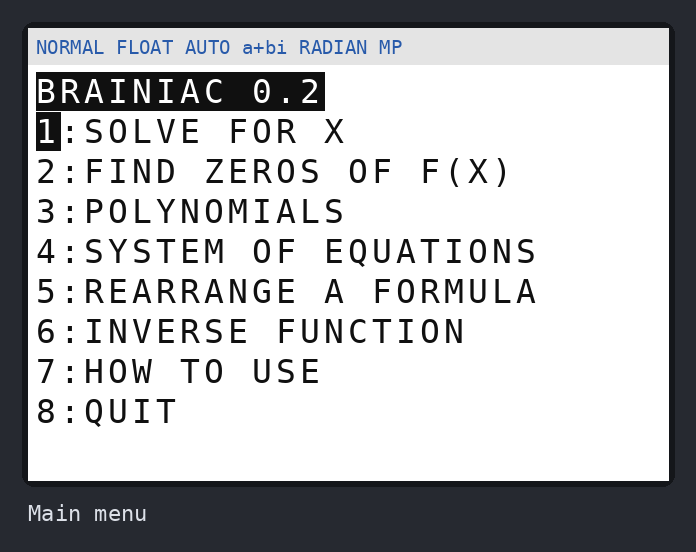
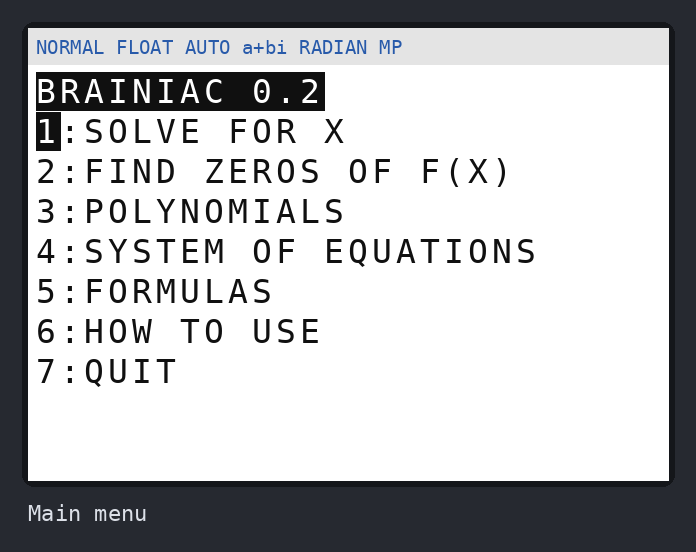
Fix ERR:INVALID DIM in every mode: the calculator has no empty strings
""→Str7 in the code that reads the equation is ERR:INVALID DIM on the
calculator, so every mode failed right after Enter. Every string that was
built up from "" now starts as "?" and has it taken off with sub( at the
end. Systems ask how many equations first instead of ending on a blank
line, since a blank Input has no documented behaviour either.

Also, to stay inside what TI documents:
- the main menu has 7 options (Rearrange and Inverse move under Formulas),
- seq( is never given complex values, augment( never complex lists, and no
  complex number is ever stored into one element of a list; the Fourier
  transforms and root polishing build complex lists from real( and imag(
  parts instead.

The simulator now refuses all of the above, and reproduces the reported
error on the previous build. 138 tests.

Claude-Session: https://claude.ai/code/session_01TAL8UPBif8sQwKba6jvyM3

Changed region(s): [[0.0302, 0.4928, 0.5129, 0.7699], [0.4526, 0.4928, 0.7845, 0.6467], [0.3621, 0.6467, 0.4526, 0.7083]]

diff --git a/brainiac/tibasic.py b/brainiac/tibasic.py
@@ -18,7 +18,9 @@ are the usual ways TI-BASIC programs break:
     calculator's stack (a slow memory leak); `leaks` counts these,
   - √ of a negative stops with ERR:NONREAL ANS in Real mode, 1/0 stops with
     ERR:DIVIDE BY 0, results past 1E100 stop with ERR:OVERFLOW,
-  - the If line without Then guards only the single next statement.
+  - the If line without Then guards only the single next statement,
+  - there are no empty strings: ""→Str1, ""+"A", length(""), a blank Input
+    into a string are all errors (Disp "" for a blank line is fine).
 """
 
 from __future__ import annotations
@@ -563,6 +565,9 @@ class Machine:
             toks = keyboard_to_tokens(text) if text.strip() else []
             self.screen.put_after(row, len(prompt), glyphs(toks))
             if target[0] == "strvar":
+                if not toks:
+                    raise TIError("INVALID DIM (blank Input: what the calculator does "
+                                  "with it is unknown, so Brainiac must not rely on it)")
                 self.strings[target[1]] = TIString(tuple(toks))
             else:
                 self.store(target, self.eval(Parser(toks).whole()))
@@ -597,6 +602,8 @@ class Machine:
         for i in range(1, len(groups) - 1, 2):
             text = fmt(self.eval(Parser(groups[i]).whole()))
             options.append((text, label_name(groups[i + 1])))
+        if len(options) > 7:
+            raise TIError("SYNTAX (Menu( takes at most 7 options)")
         snap = self.screen.snapshot()
 
         def finish(choice):
@@ -625,6 +632,8 @@ class Machine:
         elif kind == "strvar":
             if not isinstance(val, TIString):
                 raise TIError("DATA TYPE")
+            if not val.tokens:
+                raise TIError("INVALID DIM (the calculator has no empty strings)")
             self.strings[target[1]] = val
         elif kind == "yvar":
             if not isinstance(val, TIString):
@@ -640,6 +649,11 @@ class Machine:
             if i > len(lst) + 1:
                 raise TIError("INVALID DIM")
             v = self.number(val)
+            # a list is all real or all complex; what storing a complex number
+            # into one element of a real list does is unknown, so never do it
+            if isinstance(v, complex) != any(isinstance(x, complex) for x in lst) and lst:
+                raise TIError("DATA TYPE (complex element into a real list, or the "
+                              "reverse: unknown on the calculator)")
             if i == len(lst) + 1:
                 lst.append(v)
             else:
@@ -1181,6 +1195,8 @@ class Evaluator:
         m.ops += 1
         if isinstance(a, TIString) or isinstance(b, TIString):
             if op == "+" and isinstance(a, TIString) and isinstance(b, TIString):
+                if not a.tokens or not b.tokens:
+                    raise TIError("INVALID DIM (the calculator has no empty strings)")
                 return TIString(a.tokens + b.tokens)
             raise TIError("DATA TYPE")
         if isinstance(a, list) or isinstance(b, list):
@@ -1261,6 +1277,8 @@ class Evaluator:
             return [self.relation(op, x, y) for x, y in zip(aa, bb)]
         if isinstance(a, TIString) or isinstance(b, TIString):
             if op in ("=", "!=") and isinstance(a, TIString) and isinstance(b, TIString):
+                if not a.tokens or not b.tokens:
+                    raise TIError("INVALID DIM (the calculator has no empty strings)")
                 return float((a.tokens == b.tokens) == (op == "="))
             raise TIError("DATA TYPE")
         if op in ("=", "!="):
@@ -1310,6 +1328,9 @@ class Evaluator:
         if name == "augment(":
             a, b = args
             if isinstance(a, list) and isinstance(b, list):
+                if any(isinstance(x, complex) for x in a + b):
+                    raise TIError("DATA TYPE (augment( of complex lists: unknown on the "
+                                  "calculator)")
                 if len(a) + len(b) > 999:
                     raise TIError("INVALID DIM")
                 return a + b
@@ -1458,7 +1479,11 @@ class Evaluator:
                 v = self.eval(nodes[0])
                 if isinstance(v, (list, TIString, TIMatrix)):
                     raise TIError("DATA TYPE")
-                out.append(m.number(v))
+                v = m.number(v)
+                if isinstance(v, complex):
+                    raise TIError("DATA TYPE (seq( of complex values: unknown on the "
+                                  "calculator, so Brainiac must not rely on it)")
+                out.append(v)
                 if len(out) > 999:
                     raise TIError("INVALID DIM")
                 k = m.number(k + step)
@@ -1472,6 +1497,8 @@ class Evaluator:
             s = args[0]
             if not isinstance(s, TIString):
                 raise TIError("DATA TYPE")
+            if not s.tokens:
+                raise TIError("INVALID DIM (the calculator has no empty strings)")
             return float(len(s.tokens))
         if name == "expr(":
             s = args[0]
@@ -1490,10 +1517,8 @@ class Evaluator:
             if not isinstance(s, TIString) or not isinstance(sub_, TIString):
                 raise TIError("DATA TYPE")
             hay, needle = s.tokens, sub_.tokens
-            # unsure what the calculator does with an empty string here, so
-            # Brainiac must never ask
             if not hay or not needle:
-                raise TIError("INVALID DIM (inString of an empty string)")
+                raise TIError("INVALID DIM (the calculator has no empty strings)")
             for i in range(start - 1, len(hay) - len(needle) + 1):
                 if hay[i:i + len(needle)] == needle:
                     return float(i + 1)
@@ -1502,6 +1527,8 @@ class Evaluator:
             s = args[0]
             if not isinstance(s, TIString) or len(args) != 3:
                 raise TIError("ARGUMENT")
+            if not s.tokens:
+                raise TIError("INVALID DIM (the calculator has no empty strings)")
             start, length = int(m.real(args[1])), int(m.real(args[2]))
             if start < 1 or length < 1 or start + length - 1 > len(s.tokens):
                 raise TIError("DOMAIN")

diff --git a/tests/test_brainiac.py b/tests/test_brainiac.py
@@ -16,8 +16,9 @@ from brainiac.tibasic import (Machine, TIError, fmt, glyphs, keyboard_to_tokens,
                               tokens_from_text)
 from tivars.types import TIProgram
 
-SOLVE, ZEROS, POLY, SYSTEM, REARRANGE, INVERSE, HELP, QUIT = "12345678"
+SOLVE, ZEROS, POLY, SYSTEM, FORMULAS, HELP, QUIT = "1234567"
 ROOTS, QUAD, SIMPLIFY, FACTOR, DIVIDE = "12345"
+REARRANGE, INVERSE = (FORMULAS, "1"), (FORMULAS, "2")
 
 
 # -- helpers -------------------------------------------------------------------
@@ -29,6 +30,7 @@ def run(*answers):
     """
     m = load_program()
     m.run()
+    answers = [x for a in answers for x in (a if isinstance(a, tuple) else (a,))]
     for a in answers:
         assert m.wait.kind in ("menu", "input", "pause"), (answers, m.wait, m.statement_text())
         m.answer(a)
@@ -107,6 +109,21 @@ def test_labels_are_plain_letters_on_the_calculator():
             assert len(tokens) <= 3 and all(len(t.accessible) == 1 for t in tokens[1:]), line
 
 
+def test_no_menu_has_more_than_seven_options():
+    for line in source_lines():
+        if line.startswith("Menu("):
+            assert line.count(",") <= 14, line
+
+
+def test_simulator_refuses_what_the_calculator_might_not_do():
+    """Rules Brainiac can't verify from here, so it must not depend on them."""
+    for text in ['seq(𝑖I,I,1,3)→ʟA', '{1,2}→ʟA\n𝑖→ʟA(1)', 'augment({𝑖},{2})→ʟA',
+                 'Menu("T","1",A,"2",A,"3",A,"4",A,"5",A,"6",A,"7",A,"8",A)\nLbl A']:
+        m = Machine.from_text(text)
+        m.complex_mode = True
+        assert m.run().kind == "error", text
+
+
 def test_build_refuses_letters_that_fuse_into_one_token():
     from brainiac.build import check
     from tivars.tokenizer import encode
@@ -173,11 +190,6 @@ def test_solve_rejects_a_missing_side():
     assert "EQUATION NEEDS ONE =" in lines[0]
     m.answer("")
     assert m.wait.kind == "input"                 # straight back to typing
-
-
-def test_blank_input_goes_back_to_the_menu():
-    m, _ = run(SOLVE, "")
-    assert m.wait.kind == "menu" and m.wait.title == "BRAINIAC 0.2"
 
 
 # -- find zeros ----------------------------------------------------------------------------
@@ -305,13 +317,13 @@ def test_divide(top, bottom, quotient, remainder):
                             "Z CAN BE ANY NUMBER."]),
 ])
 def test_systems(equations, expected):
-    m, lines = run(SYSTEM, *equations, "")
+    m, lines = run(SYSTEM, str(len(equations)), *equations)
     assert_clean(m)
     assert lines == expected
 
 
 def test_systems_reject_nonlinear():
-    m, lines = run(SYSTEM, "X^2+Y=3")
+    m, lines = run(SYSTEM, "2", "X^2+Y=3")
     assert "LINEAR" in lines[1]
 
 
@@ -378,8 +390,9 @@ def test_many_rounds_do_not_leak():
     m = load_program()
     m.run()
     for mode, inputs in [(SOLVE, ["X^2=9"]), (SOLVE, ["sin(X)=2"]), (REARRANGE, ["A=BH", "B"]),
-                         (INVERSE, ["2X"]), (SYSTEM, ["X+Y=2", "X-Y=0", ""])]:
-        m.answer(mode)
+                         (INVERSE, ["2X"]), (SYSTEM, ["2", "X+Y=2", "X-Y=0"])]:
+        for text in (mode if isinstance(mode, tuple) else (mode,)):
+            m.answer(text)
         for text in inputs:
             m.answer(text)
         while m.wait.kind == "pause":
@@ -457,6 +470,19 @@ def test_list_bracket_is_a_lookup_not_a_multiplication():
     m = Machine.from_text("{5,6,7}→ʟL\nʟL(2)→A")
     m.run()
     assert m.reals["A"] == 6
+
+
+def test_there_are_no_empty_strings():
+    """""→Str1 is ERR:INVALID DIM on the calculator (the 0.2 bug)."""
+    for text in ['""→Str1', '"A"→Str1\n""+Str1→Str2', 'length("")→A']:
+        assert Machine.from_text(text).run().kind == "error", text
+    m = Machine.from_text('Disp ""')          # a blank line is fine, though
+    assert m.run().kind == "done"
+
+
+def test_no_source_line_stores_an_empty_string():
+    for line in source_lines():
+        assert '""→' not in line, line
 
 
 def test_and_checks_both_sides():

diff --git a/brainiac/shots.py b/brainiac/shots.py
@@ -24,11 +24,11 @@ TOURS = [
     ("10-factor", "Factor", ["3", "4", "6X^2+X-2"]),
     ("11-simplify", "Simplify / expand", ["3", "3", "(A+B)^2-(A-B)^2"]),
     ("12-divide", "Polynomial division", ["3", "5", "X^3+2X+5", "X^2+1"]),
-    ("13-system", "A 3x3 system", ["4", "2X+3Y-Z=1", "X-Y+2Z=3", "3X+Y+Z=6", ""]),
-    ("14-rearrange-pendulum", "Rearrange T=2π√(L/G) for L", ["5", "T=2pi√(L/G)", "L"]),
-    ("15-rearrange-gas", "Rearrange PV=NRT for T", ["5", "PV=NRT", "T"]),
-    ("16-inverse", "Inverse of (X+1)/(X-2)", ["6", "(X+1)/(X-2)"]),
-    ("17-help", "How to use, page 1", ["7"]),
+    ("13-system", "A 3x3 system", ["4", "3", "2X+3Y-Z=1", "X-Y+2Z=3", "3X+Y+Z=6"]),
+    ("14-rearrange-pendulum", "Rearrange T=2π√(L/G) for L", ["5", "1", "T=2pi√(L/G)", "L"]),
+    ("15-rearrange-gas", "Rearrange PV=NRT for T", ["5", "1", "PV=NRT", "T"]),
+    ("16-inverse", "Inverse of (X+1)/(X-2)", ["5", "2", "(X+1)/(X-2)"]),
+    ("17-help", "How to use, page 1", ["6"]),
 ]
 
 

diff --git a/brainiac/README.md b/brainiac/README.md
@@ -8,8 +8,8 @@ A math solver for the **TI-84 Plus CE**. Version 0.2:
 | **Find zeros of F(X)** | The same engine, for a function instead of an equation. |
 | **Polynomials** | Roots of any degree (complex too), **quadratic step by step** (discriminant, formula, factored form, vertex form), **simplify/expand**, **factor**, **divide**. |
 | **System of equations** | Up to 6 linear equations, typed the way you'd write them. It says when there's no solution or infinitely many. |
-| **Rearrange a formula** | `A=BH/2` for H gives `H=2A/B`. `T=2π√(L/G)` for L gives `L=GT²/(4π²)`. |
-| **Inverse function** | `(X+1)/(X-2)` gives `F⁻¹(X)=(2X+1)/(X-1)`. |
+| **Formulas › Rearrange** | `A=BH/2` for H gives `H=2A/B`. `T=2π√(L/G)` for L gives `L=GT²/(4π²)`. |
+| **Formulas › Inverse** | `(X+1)/(X-2)` gives `F⁻¹(X)=(2X+1)/(X-1)`. |
 
 | | | |
 |---|---|---|
@@ -46,6 +46,8 @@ choose **Replace**.
 - Use the **[(-)]** key for negative numbers, not **[−]**.
 - `(DOUBLE)` after an answer means a repeated root, where the graph touches
   zero without crossing it.
+- There's no way to leave a prompt blank. If you change your mind, type
+  anything (like `1`) and pick MAIN MENU afterwards.
 - Answers that run past one screen show **ENTER: MORE**.
 
 ### What it can't do yet
@@ -140,6 +142,17 @@ programs:
 - the same errors (NONREAL ANS, DIVIDE BY 0, OVERFLOW, DOMAIN…);
 - 14-digit decimal arithmetic;
 - an `and` that checks both sides before deciding;
+- **no empty strings**: `""→Str1` is ERR:INVALID DIM on the calculator
+  (the bug that broke every mode of the first 0.2 build);
+- `Menu(` takes at most 7 options;
+- a label must be plain letters and digits (`FV` and `PV` are finance
+  variables, so `Lbl FV` is ERR:SYNTAX);
 - a count of any jump out of a block.
 
-Tests require that count to stay at zero.
+It also refuses things whose behaviour on the calculator isn't documented,
+so Brainiac can't depend on them by accident: `seq(` producing complex
+values, `augment(` of complex lists, and storing a complex number into one
+element of a real list. Brainiac builds its complex lists only by whole-list
+arithmetic, which is documented.
+
+Tests require the leak count to stay at zero.
